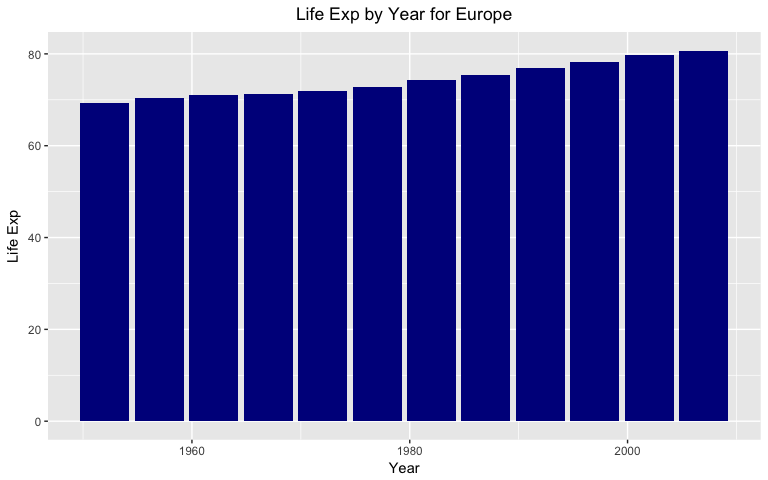
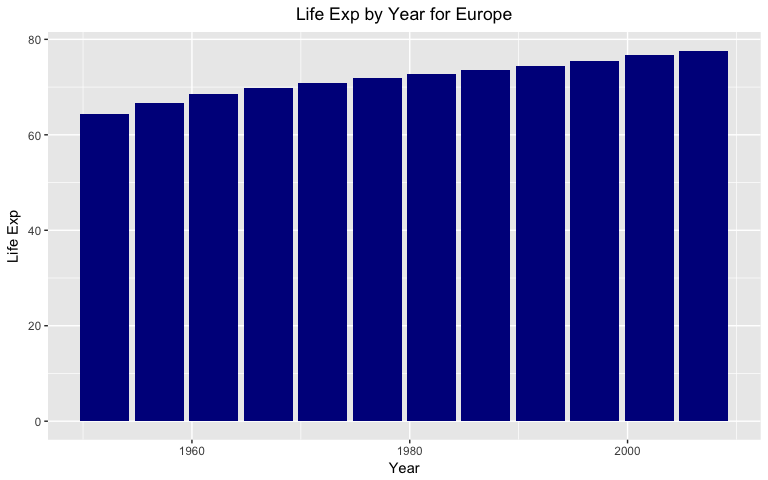
updating hw03

diff --git a/hw03/a_deeper_exploration_into_gapminder_dataset.md b/hw03/a_deeper_exploration_into_gapminder_dataset.md
@@ -1,7 +1,7 @@
 Use dplyr and ggplot2 to manipulate and explore gapminder dataset
 ================
 Jason Sun
-2017-10-02
+2017-10-03
 
 Intro
 -----
@@ -190,6 +190,8 @@ ggplot(asialifeexp, aes(x=year, y = avg_life_exp)) + geom_bar(stat="identity",po
 
 ![](a_deeper_exploration_into_gapminder_dataset_files/figure-markdown_github-ascii_identifiers/unnamed-chunk-12-1.png)
 
+America starts from about 44 to 66 overall.
+
 This is for Americas
 
 ``` r
@@ -198,6 +200,8 @@ ggplot(americalifeexp, aes(x=year, y = avg_life_exp)) + geom_bar(stat="identity"
 ```
 
 ![](a_deeper_exploration_into_gapminder_dataset_files/figure-markdown_github-ascii_identifiers/unnamed-chunk-13-1.png)
+
+America starts from about 54 to 68 overall.
 
 This is for Africa
 
@@ -208,6 +212,8 @@ ggplot(africalifeexp, aes(x=year, y = avg_life_exp)) + geom_bar(stat="identity",
 
 ![](a_deeper_exploration_into_gapminder_dataset_files/figure-markdown_github-ascii_identifiers/unnamed-chunk-14-1.png)
 
+Africa seems to be starting from 39 to 46.
+
 For Oceania
 
 ``` r
@@ -217,14 +223,18 @@ ggplot(oceanialifeexp, aes(x=year, y = avg_life_exp)) + geom_bar(stat="identity"
 
 ![](a_deeper_exploration_into_gapminder_dataset_files/figure-markdown_github-ascii_identifiers/unnamed-chunk-15-1.png)
 
+So it is quite clear that the life of Oceania increase from about 64 to 81. Wow so high!
+
 For Europe
 
 ``` r
 europelifeexp <- gapminder %>% select(continent, year, lifeExp) %>% filter(continent=="Europe") %>% group_by(year) %>% summarize(avg_life_exp = mean(lifeExp))
-ggplot(oceanialifeexp, aes(x=year, y = avg_life_exp)) + geom_bar(stat="identity",position="dodge",fill = "dark blue")+labs(x = "Year", y = "Life Exp", title = "Life Exp by Year for Europe") + theme(plot.title = element_text(hjust = 0.5))
+ggplot(europelifeexp, aes(x=year, y = avg_life_exp)) + geom_bar(stat="identity",position="dodge",fill = "dark blue")+labs(x = "Year", y = "Life Exp", title = "Life Exp by Year for Europe") + theme(plot.title = element_text(hjust = 0.5))
 ```
 
 ![](a_deeper_exploration_into_gapminder_dataset_files/figure-markdown_github-ascii_identifiers/unnamed-chunk-16-1.png)
+
+So it is quite clear that the life of Europe increase from more than 60 to 78.
 
 ### Question 5: Find countries whose life expectancy is lower than the average of the world
 
@@ -240,17 +250,12 @@ avg_life
 Let's then calculate the average life expectancy of countries one by one whose is below the avg\_life calculated above
 
 ``` r
-gapminder%>%group_by(country, continent)%>%summarize(avg_life_exp = mean(lifeExp))%>%filter(avg_life_exp < avg_life)%>%arrange(continent)%>%group_by(continent)%>%summarize(n = n())
+below_life <- gapminder%>%group_by(country, continent)%>%summarize(avg_life_exp = mean(lifeExp))%>%filter(avg_life_exp < avg_life)%>%arrange(continent)%>%group_by(continent)%>%summarize(n = n())
+
+ggplot(below_life, aes(x=continent, y = n)) + geom_bar(stat="identity",position="dodge",fill = "dark blue")+labs(x = "Continent", y = "Life Exp", title = "Life Exp below average") + theme(plot.title = element_text(hjust = 0.5))+geom_text(aes(label=n), vjust=0)
 ```
 
-    ## # A tibble: 3 x 2
-    ##   continent     n
-    ##      <fctr> <int>
-    ## 1    Africa    49
-    ## 2  Americas     6
-    ## 3      Asia    15
-
-Wow, it seems that there are total of 70 countries who is under average life exp and Africa accounts for over 81.6% of the total.
+![](a_deeper_exploration_into_gapminder_dataset_files/figure-markdown_github-ascii_identifiers/unnamed-chunk-18-1.png) Wow, it seems that there are total of 70 countries who is under average life exp and Africa accounts for over 81.6% of the total.
 
 ### Question 6: Find countries with interesting stories. Open-ended and, therefore, hard. Promising but unsuccessful attempts are encouraged. This will generate interesting questions to follow up on in class
 
